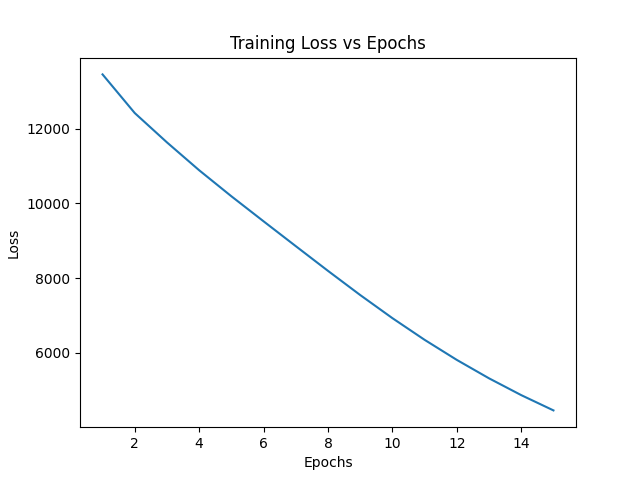
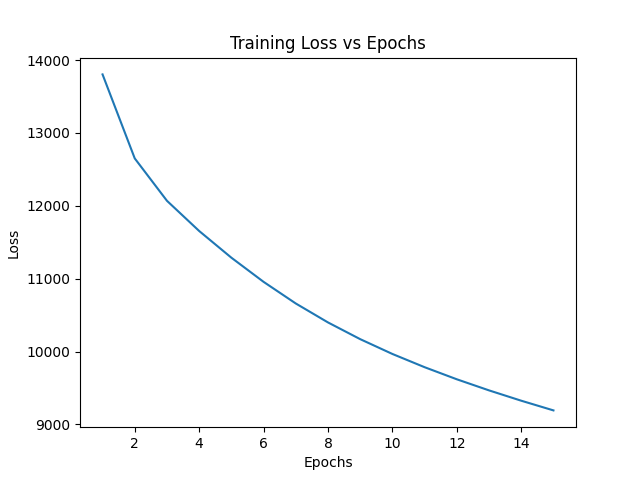
changed ensemble and NN

diff --git a/starter_code/part_a/neural_network.py b/starter_code/part_a/neural_network.py
@@ -176,7 +176,7 @@ def main():
     # validation set.                                                   #
     #####################################################################
     # Set model hyperparameters.
-    k = 100
+    k = 10
     model = AutoEncoder
 
     num_questions = train_matrix.shape[1]
@@ -184,8 +184,9 @@ def main():
     # Set optimization hyperparameters.
     lr = 0.05
     num_epoch = 15
-    # lamb = [0.001, 0.01, 0.1, 1]
-    lamb = [0.001]
+    lamb = [0.001, 0.01, 0.1, 1]
+    # lamb = [0.0]
+    # lamb = 0
     top_accs = []
     for lamb_choice in lamb:
         m = model(num_question=num_questions, k=k)
@@ -207,11 +208,11 @@ def main():
     # plt.xlabel("Epochs")
     # plt.ylabel("Loss")
     # plt.savefig("q3_d_train.png")
-    # plt.plot(lamb, top_accs)
-    # plt.title("Validation Accuracy vs Regularization")
-    # plt.xlabel("Lambda")
-    # plt.ylabel("Validation Accuracy")
-    # plt.savefig("q3_e.png")
+    plt.plot(lamb, top_accs)
+    plt.title("Validation Accuracy vs Regularization")
+    plt.xlabel("Lambda")
+    plt.ylabel("Validation Accuracy")
+    plt.savefig("q3_e.png")
     test_acc = evaluate(m, zero_train_matrix, test_data, device=torch.device("cuda:0"))
 
     print(f"Test accuracy: {test_acc}")

diff --git a/starter_code/part_a/ensemble.py b/starter_code/part_a/ensemble.py
@@ -67,7 +67,7 @@ def main():
     lr = 0.017
     num_epoch = 15
     lamb = 0
-    k = 100
+    k = 10
 
     models = [AutoEncoder(num_questions, k) for _ in range(splits)]
 
